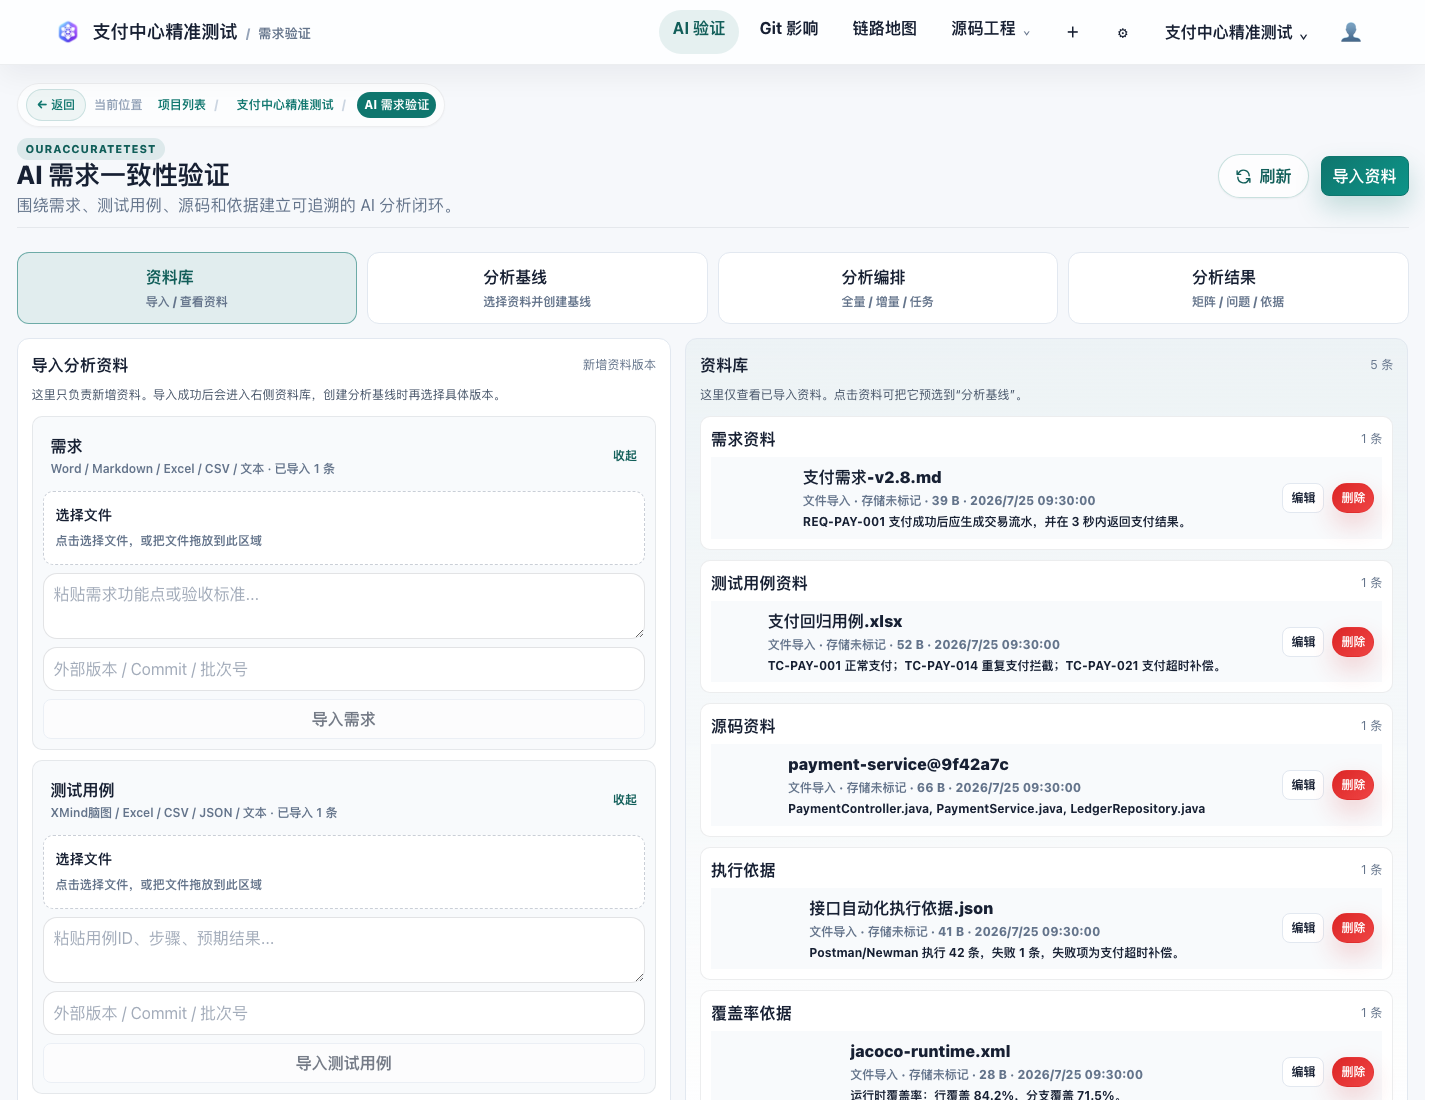
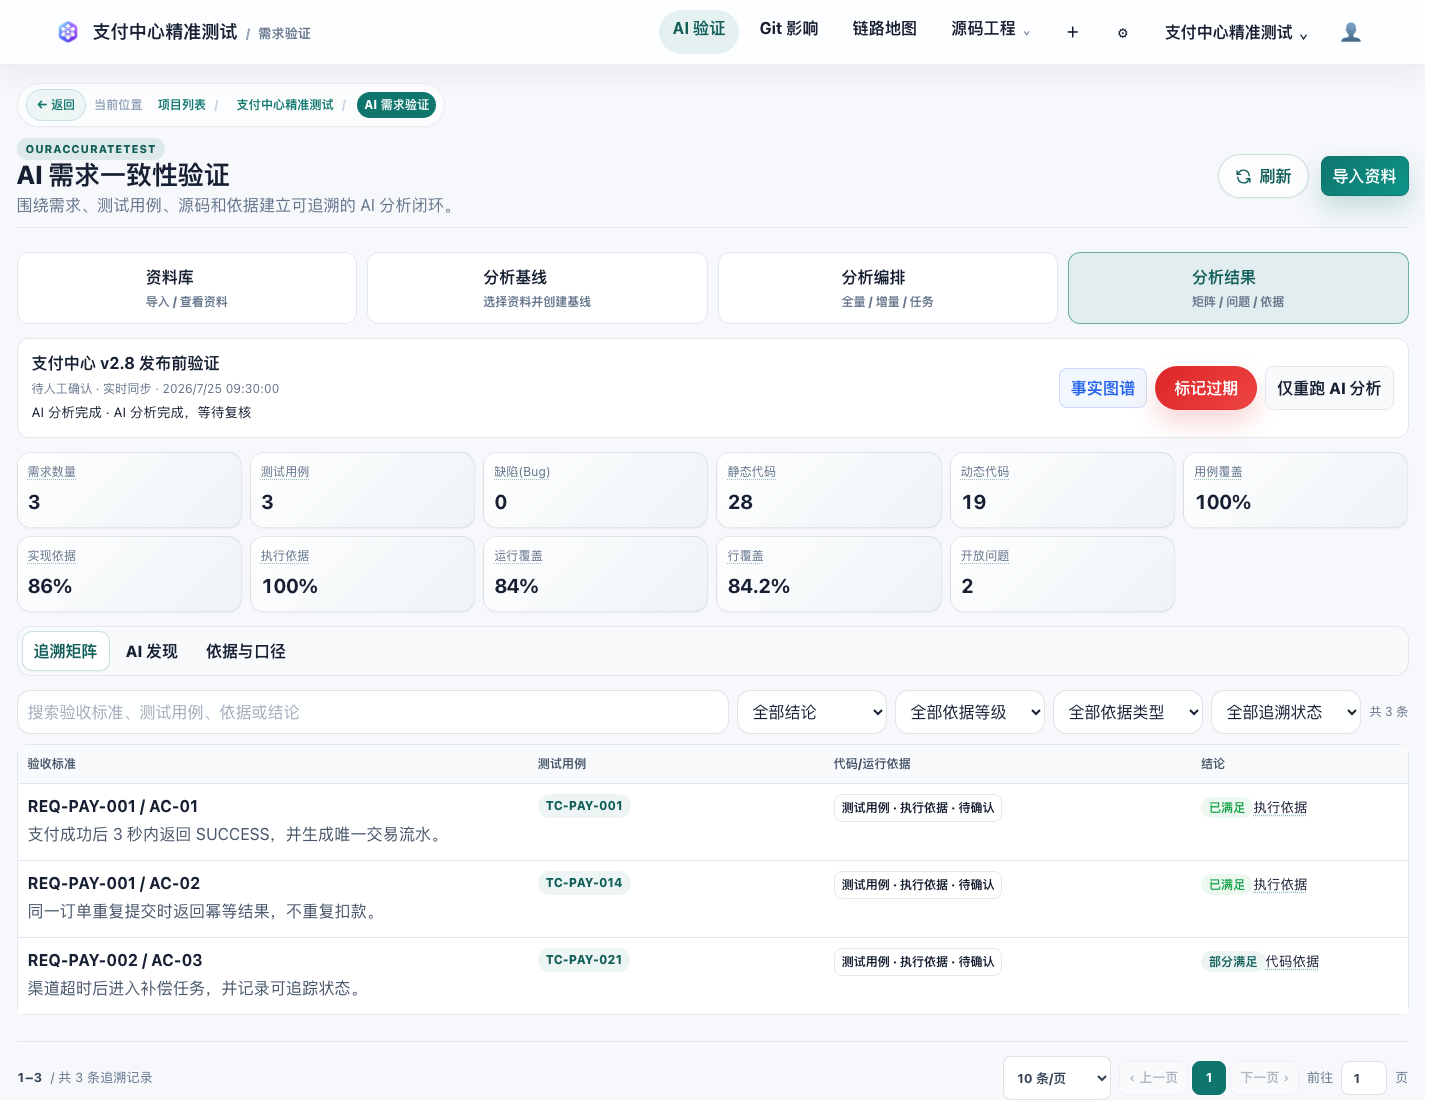
优化

diff --git a/docs/index.html b/docs/index.html
@@ -104,7 +104,7 @@
               <p>导入需求、验收标准、测试用例、源码快照、执行依据和覆盖率，让后续分析基于同一组版本化依据。</p>
             </div>
             <div class="workflow-media" aria-label="验证基线界面预览">
-              <img src="./assets/workflow-02-ai-verification.png" alt="建立验证基线界面截图" loading="lazy">
+              <img src="./assets/workflow-01-baseline.png" alt="建立验证基线界面截图" loading="lazy">
             </div>
           </article>
           <article class="workflow-step reverse">
@@ -116,7 +116,7 @@
               <p>LLM 结合结构化依据生成追溯关系、覆盖缺口、实现偏差和风险摘要，结果进入人工复核队列。</p>
             </div>
             <div class="workflow-media" aria-label="AI 一致性验证界面预览">
-              <img src="./assets/workflow-01-baseline.png" alt="AI 一致性验证界面截图" loading="lazy">
+              <img src="./assets/workflow-02-ai-verification.png" alt="AI 一致性验证界面截图" loading="lazy">
             </div>
           </article>
           <article class="workflow-step">
